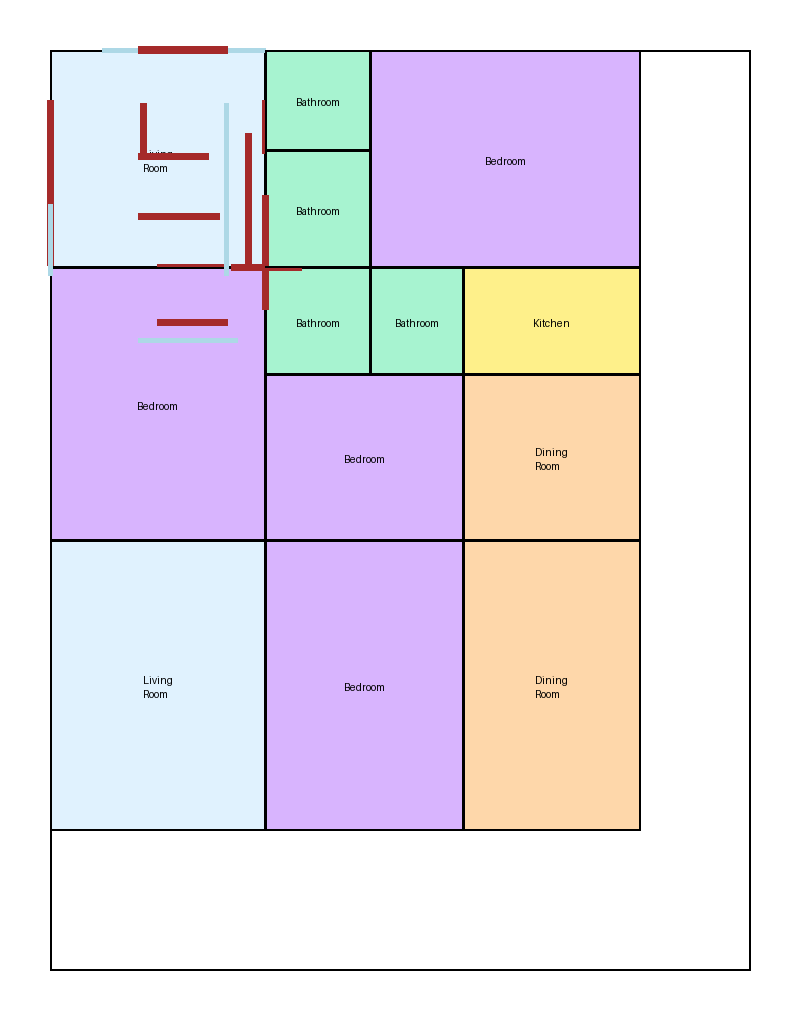
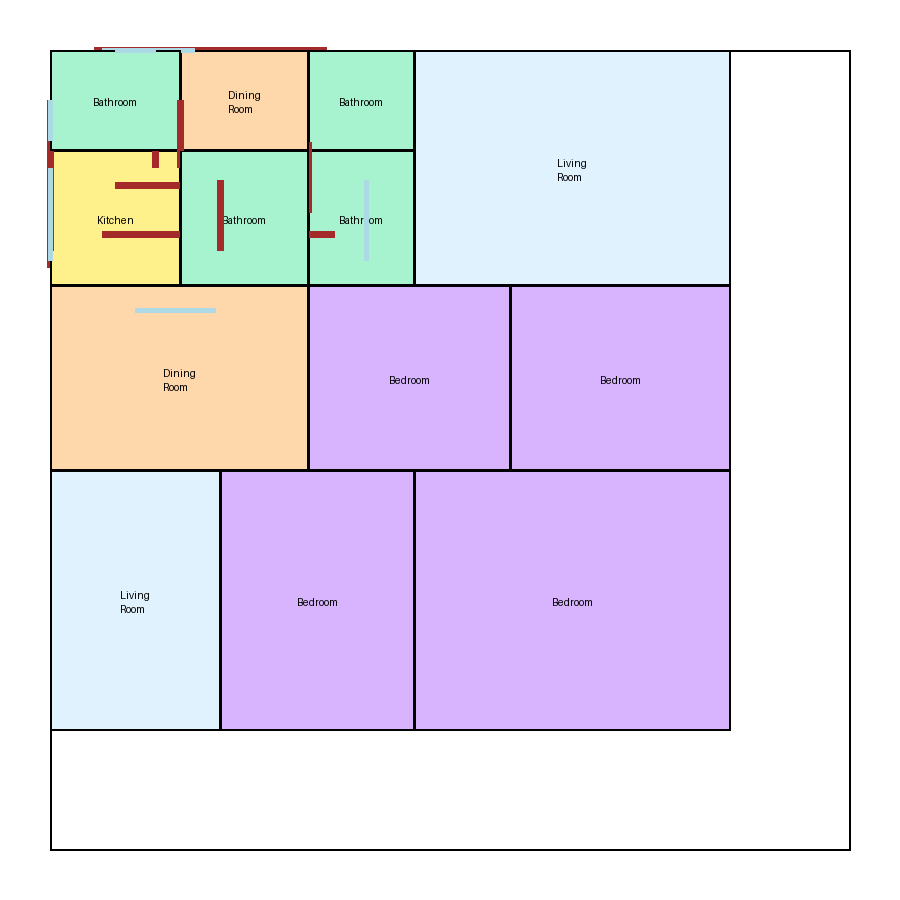
feat: implement 20-point architectural rulebook (zoning, circulation tests, strict adjacencies)

diff --git a/geometry_validator.py b/geometry_validator.py
@@ -137,7 +137,8 @@ class GeometryValidator:
             
             room_dict = {
                 "room_type": r.type,
-                "doors": []
+                "doors": [],
+                "windows": []
             }
             for d in r.doors:
                 room_dict["doors"].append({
@@ -145,6 +146,11 @@ class GeometryValidator:
                     "position_z": d.z + r.rect.z,
                     "width": d.width,
                     "wall_orientation": getattr(d, "wall_orientation", "north")
+                })
+            for w in r.windows:
+                room_dict["windows"].append({
+                    "position_x": w.x + r.rect.x,
+                    "position_z": w.z + r.rect.z
                 })
             blueprint.append(room_dict)
 
@@ -507,16 +513,59 @@ class GeometryValidator:
             if isinstance(features, str) and "main_entrance" in features:
                 start = idx
                 break
+            # Also try to start from living room or foyer
+            if "living" in room.get("room_type", "").lower() or "foyer" in room.get("room_type", "").lower():
+                start = idx
 
         visited = set()
         queue: deque[int] = deque([start])
         visited.add(start)
+        
+        bfs_tree = {} # Parent -> children
+        
         while queue:
             curr = queue.popleft()
+            bfs_tree[curr] = []
             for nb in door_connected[curr]:
                 if nb not in visited:
                     visited.add(nb)
                     queue.append(nb)
+                    bfs_tree[curr].append(nb)
+
+        # Circulation Test: Bedrooms cannot be passage rooms
+        for curr, children in bfs_tree.items():
+            curr_type = blueprint[curr].get("room_type", "").lower()
+            if "bed" in curr_type:
+                for child in children:
+                    child_type = blueprint[child].get("room_type", "").lower()
+                    if "bath" not in child_type and "toilet" not in child_type and "closet" not in child_type and "balcony" not in child_type:
+                        msg = f"CIRCULATION ERROR: Bedroom {boxes[curr].label} is being used as a passage to reach {boxes[child].label}!"
+                        logger.warning(msg)
+                        result.errors.append(msg)
+                        result.is_valid = False
+
+        # Door & Window Verification
+        for idx, room in enumerate(blueprint):
+            r_type = room.get("room_type", "").lower()
+            num_doors = len(room.get("doors", []))
+            num_windows = len(room.get("windows", [])) # Will need to pass windows to blueprint
+            
+            if num_doors == 0 and "corridor" not in r_type:
+                msg = f"DOOR ERROR: {boxes[idx].label} has no doors!"
+                logger.warning(msg)
+                result.errors.append(msg)
+                result.is_valid = False
+                
+            # If we passed windows in the blueprint dictionary
+            if "windows" in room:
+                if "bed" in r_type and num_windows == 0:
+                    msg = f"WINDOW ERROR: {boxes[idx].label} has no windows!"
+                    result.errors.append(msg)
+                    result.is_valid = False
+                elif ("bath" in r_type or "toilet" in r_type or "kitchen" in r_type) and num_windows == 0:
+                    msg = f"VENTILATION ERROR: {boxes[idx].label} has no ventilation!"
+                    result.errors.append(msg)
+                    result.is_valid = False
 
         # 4. Report unreachable rooms.
         for idx in range(n):

diff --git a/geometry_engine.py b/geometry_engine.py
@@ -56,6 +56,13 @@ class CPSolver:
             if "corridor" not in r_type:
                 model.Add(100 * w >= 65 * l)
                 model.Add(10 * w <= 16 * l)
+            else:
+                # Corridor must be narrow (width <= 5 OR length <= 5)
+                b1 = model.NewBoolVar(f'corr_w_narrow_{r_id}')
+                b2 = model.NewBoolVar(f'corr_l_narrow_{r_id}')
+                model.Add(w <= int(5.0 * scale)).OnlyEnforceIf(b1)
+                model.Add(l <= int(5.0 * scale)).OnlyEnforceIf(b2)
+                model.AddBoolOr([b1, b2])
             
             x_end = model.NewIntVar(min_dim, plot_w, f'x_end_{r_id}')
             z_end = model.NewIntVar(min_dim, plot_l, f'z_end_{r_id}')
@@ -81,6 +88,18 @@ class CPSolver:
             x_intervals = [rv['x_interval'] for rv in room_vars.values()]
             z_intervals = [rv['z_interval'] for rv in room_vars.values()]
             model.AddNoOverlap2D(x_intervals, z_intervals)
+            
+            # Constraint: Master Bedroom Area >= Other Bedrooms Area
+            master_rvs = [rv for rv in room_vars.values() if rv['type'] == 'master_bedroom']
+            bed_rvs = [rv for rv in room_vars.values() if rv['type'] == 'bedroom']
+            if master_rvs and bed_rvs:
+                mrv = master_rvs[0]
+                m_area = model.NewIntVar(0, plot_w * plot_l, 'm_area')
+                model.AddMultiplicationEquality(m_area, [mrv['w'], mrv['l']])
+                for i, brv in enumerate(bed_rvs):
+                    b_area = model.NewIntVar(0, plot_w * plot_l, f'b_area_{i}')
+                    model.AddMultiplicationEquality(b_area, [brv['w'], brv['l']])
+                    model.Add(m_area >= b_area)
             
         # Constraint: Adjacency (Rooms must touch if connected)
         # We also want to ensure the graph is fully connected (all rooms touch the main cluster)
@@ -179,12 +198,17 @@ class CPSolver:
                 obj_vars.append(-weight * rv['w'])
                 obj_vars.append(-weight * rv['l'])
                 
-            # 2. Public vs Private Zoning
-            # Heavily penalize Z distance for public rooms (pull them to front entrance at z=0)
-            public_types = ['living_room', 'foyer', 'porch', 'entrance']
+            # 2. Strict Front/Middle/Rear Structural Zoning
+            front_types = ['living_room', 'foyer', 'dining_room', 'kitchen', 'porch', 'entrance']
+            # middle_types = ['corridor', 'hallway', 'powder_room'] float naturally
+            rear_types = ['bedroom', 'master_bedroom']
+            
             for rv in room_vars.values():
-                if rv['type'] in public_types:
-                    obj_vars.append(rv['z'] * 5) # Strong pull to z=0
+                t = rv['type']
+                if t in front_types:
+                    obj_vars.append(rv['z'] * 15) # Extreme pull to front (z=0)
+                elif t in rear_types:
+                    obj_vars.append(-rv['z'] * 15) # Extreme push to rear (z=max)
                     
             # 3. Wet Zone Clustering
             wet_rooms = [rv for rv in room_vars.values() if rv['type'] in ['kitchen', 'bathroom', 'laundry', 'toilet']]

diff --git a/cloud_extractor.py b/cloud_extractor.py
@@ -513,6 +513,11 @@ def auto_wire_topology(room_types: list) -> list:
     
     all_baths = bath_idx + toilet_idx
     
+    # ENFORCE CORRIDOR: If there are multiple bedrooms or baths and no corridor, we MUST add one to satisfy Circulation Rules
+    if not corridor_idx and (len(bed_idx) + len(master_idx) > 1 or len(all_baths) > 1):
+        room_specs.append({"type": "corridor", "connections": []})
+        corridor_idx = [len(room_specs) - 1]
+    
     # Core Public Zone Flow
     if living_idx and dining_idx:
         room_specs[living_idx[0]]['connections'].append({"target_room": "dining_room", "intent": "open_flow"})
@@ -521,20 +526,19 @@ def auto_wire_topology(room_types: list) -> list:
     elif living_idx and kitchen_idx:
         room_specs[living_idx[0]]['connections'].append({"target_room": "kitchen", "intent": "open_flow"})
         
-    # Wet Zone Attachments
+    # Wet Zone Attachments (Master gets first bath)
     if master_idx and all_baths:
         room_specs[master_idx[0]]['connections'].append({"target_room": room_specs[all_baths[0]]['type'], "intent": "standard"})
-        all_baths.pop(0) # used one bath
+        all_baths.pop(0)
         
-    # If 2 beds and 1 bath left, make a shared bath or Jack & Jill
-    # But standard connectivity just requires they connect to a corridor that has the bath
-    
     # Private Zone Flow
     if corridor_idx:
         corr_i = corridor_idx[0]
         corr_type = room_specs[corr_i]['type']
         
-        # Connect remaining beds and baths to the corridor
+        # Connect ALL bedrooms (including master) and remaining baths to the corridor
+        if master_idx:
+            room_specs[master_idx[0]]['connections'].append({"target_room": corr_type, "intent": "standard"})
         for bi in bed_idx:
             room_specs[bi]['connections'].append({"target_room": corr_type, "intent": "standard"})
         for bi in all_baths:
@@ -546,9 +550,11 @@ def auto_wire_topology(room_types: list) -> list:
         elif dining_idx:
             room_specs[corr_i]['connections'].append({"target_room": "dining_room", "intent": "open_flow"})
     else:
-        # If no corridor, bedrooms must connect to living/dining (not ideal but mathematically necessary)
+        # If no corridor (very small house), connect directly to living/dining
         target = "living_room" if living_idx else ("dining_room" if dining_idx else None)
         if target:
+            if master_idx:
+                room_specs[master_idx[0]]['connections'].append({"target_room": target, "intent": "standard"})
             for bi in bed_idx:
                 room_specs[bi]['connections'].append({"target_room": target, "intent": "standard"})
             for bi in all_baths:
